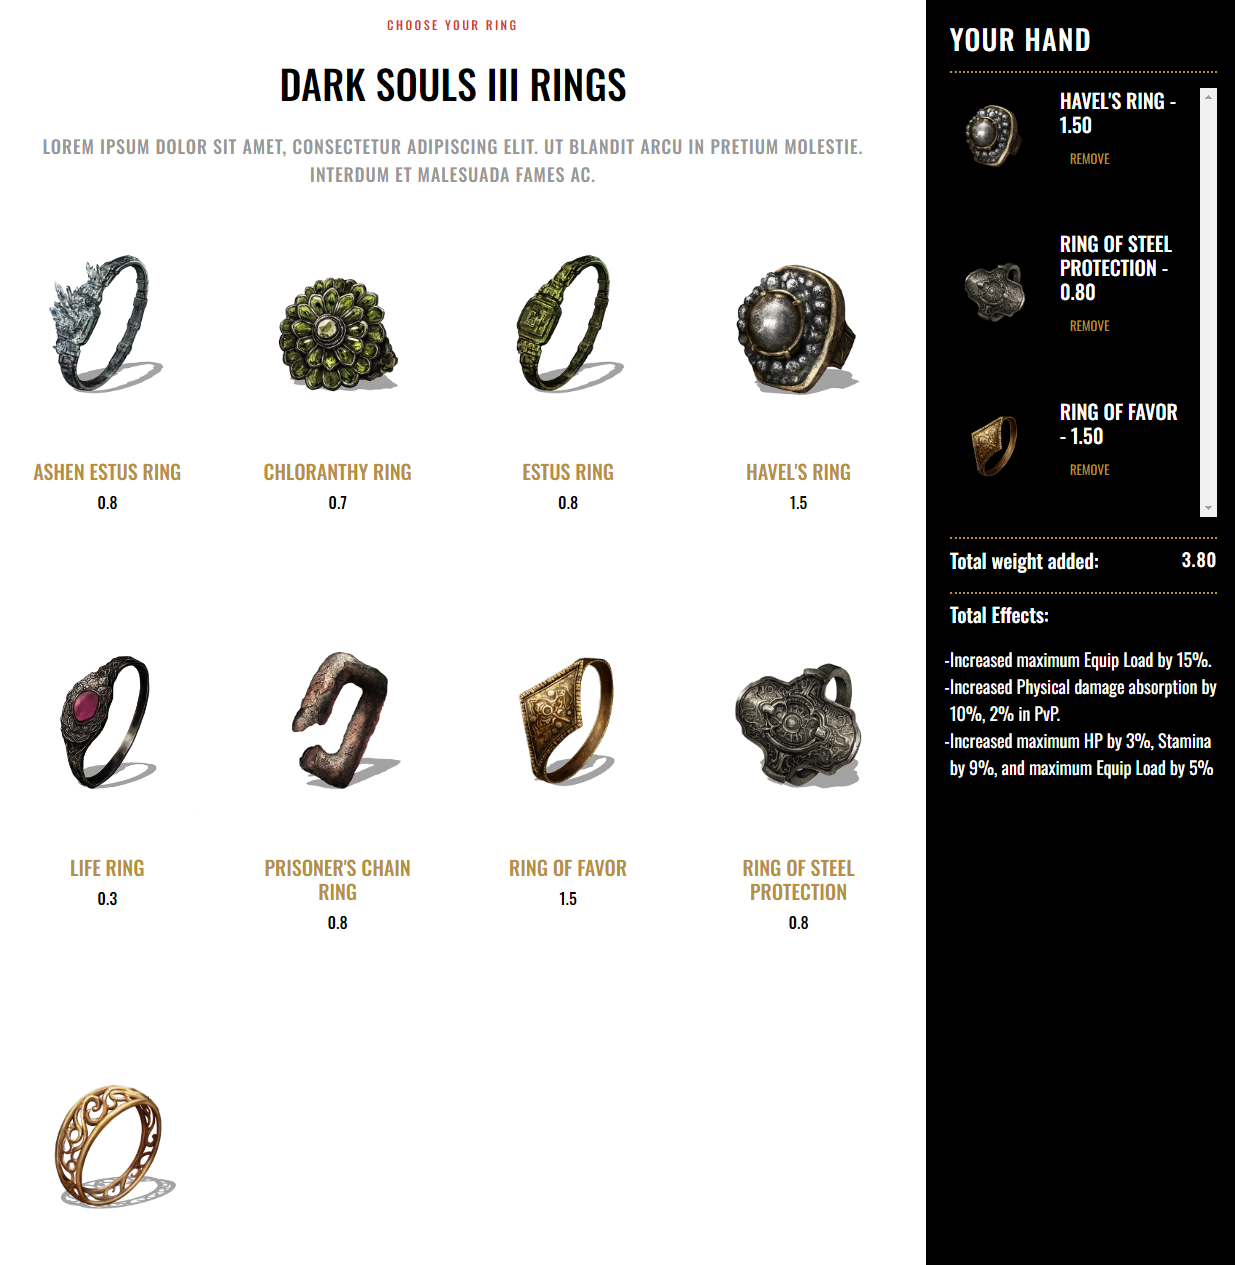
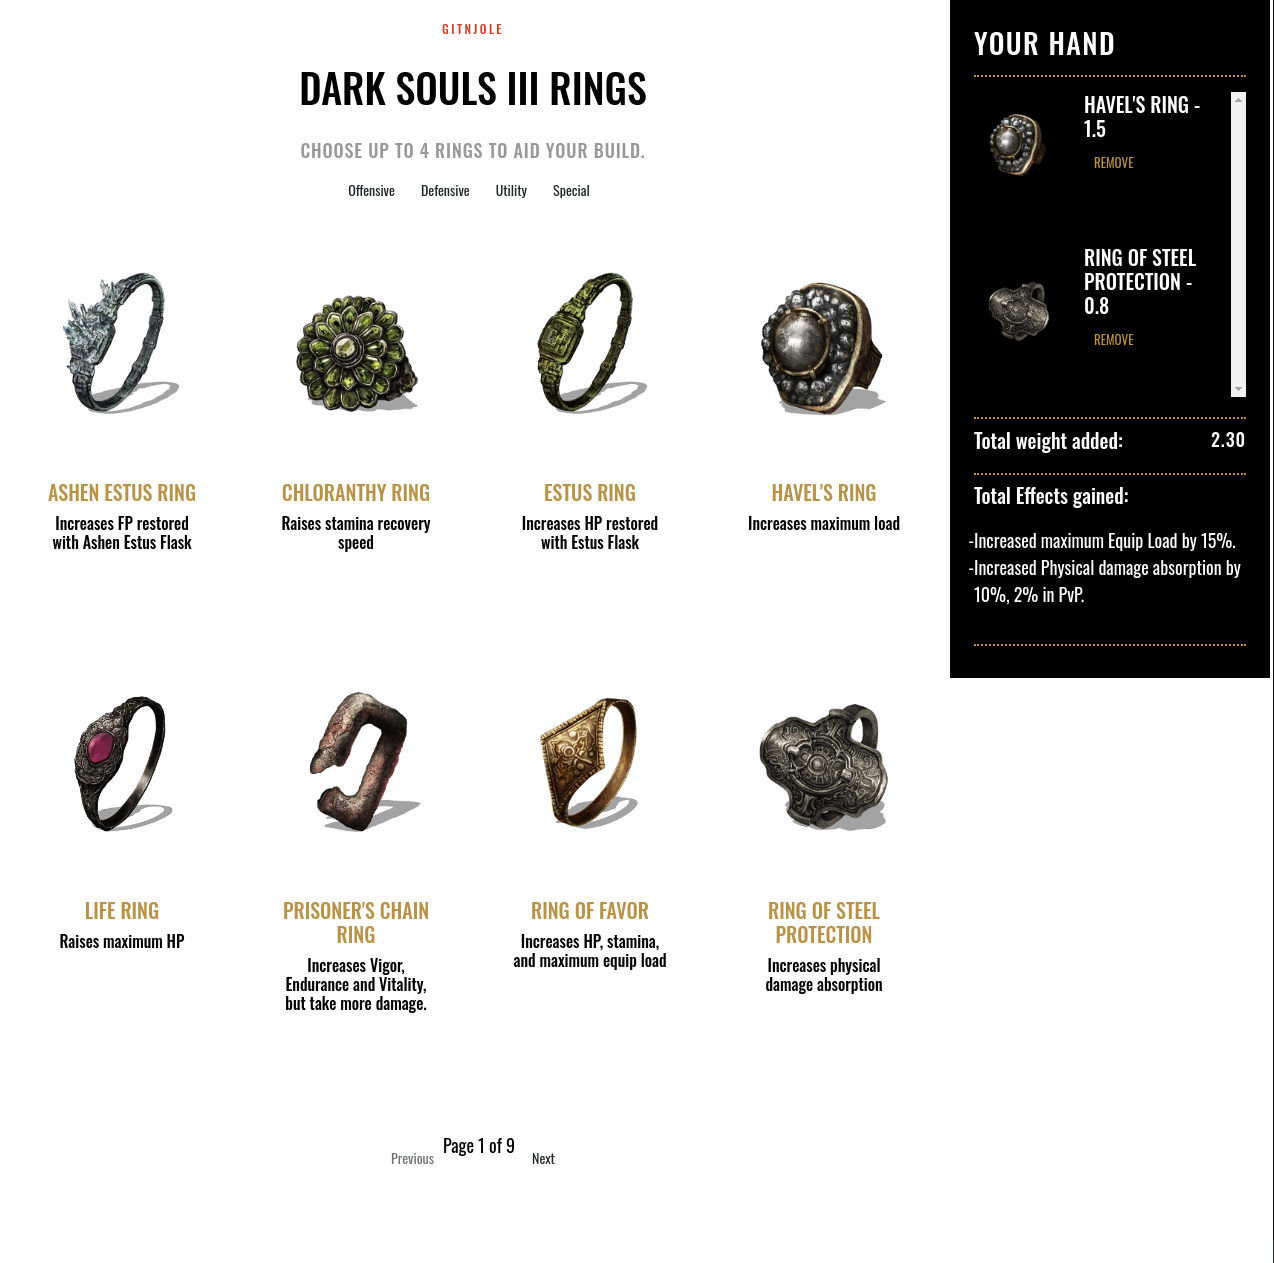
docs(README): update assets and refine README structure

diff --git a/README.md b/README.md
@@ -1,25 +1,45 @@
-# Introduction
+# souls-shop
 
-WIP - check back later!
+## What is souls-shop
+
+A project developed to explore JavaScript and Vue.js fundamentals. I focused on data binding and reactivity.
 
 Check out a live demo on [netlify](https://guileless-dasik-332911.netlify.app/)
 
-Clone this project and try it out yourself
+## Installation
+
+Clone this project
 ```bash
 git clone https://github.com/gitnjole/souls-shop
 ```
+
+## Usage
+
+All ring data is located in the directory `assets\json` where you can update or change information.
+
+Only 4 (four) rings can be selected at a time. Clicking on the button `add to hand` will update the right-hand bar with selected ring's benefits along with weight.
+
+You can use the category tags to filter rings and navigate pages. Will implement search function in near future.
+
 
 # TODO
 
 - [x] Add all rings
 - [ ] Implement shuffle button
+- [ ] Implement search
+- [ ] Implement JSON export
 - [x] Implement total effect calculator
 - [x] Implement maximum of 4 rings
-- [ ] Finish README
 - [x] Implement better data storage solution
 - [ ] **(partially implemented)** Implement +1/+2/+3 versions of rings
 - [ ] Add better button CSS to display max ring limit
 - [ ] Change 'cart' and 'menu' naming convention
+
+# Known Issues
+
+The max limit button isn't enforced correctly.
+
+The layout isn't dynamic, so mobile and vertical monitor users might not get the best experience.
 
 # View
 
